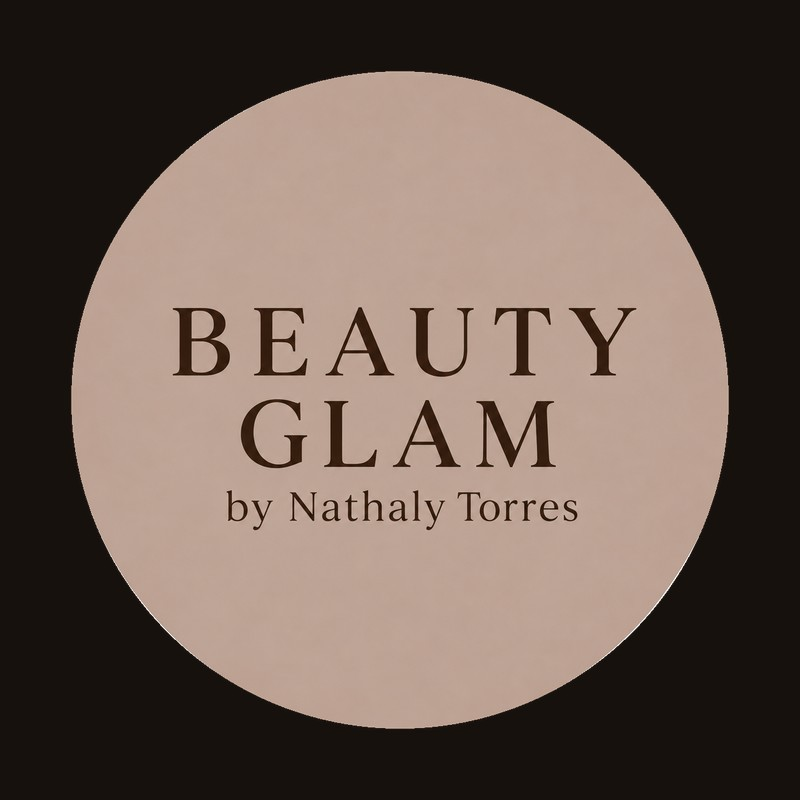
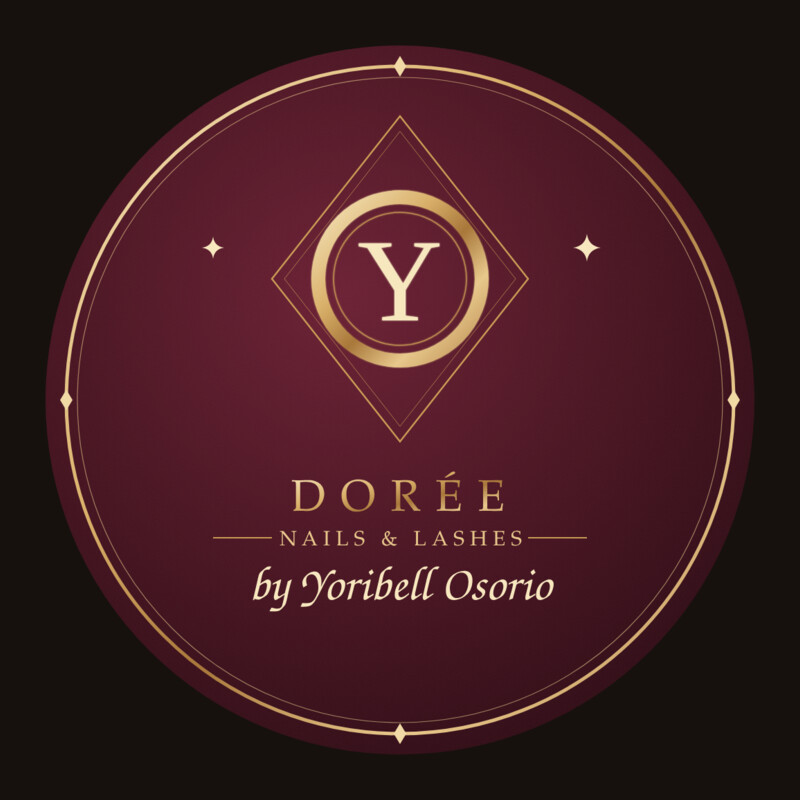
Nueva marca: Doree Nails & Lashes by Yoribell Osorio

diff --git a/admin.html b/admin.html
@@ -3,7 +3,7 @@
 <head>
 <meta charset="utf-8">
 <meta name="viewport" content="width=device-width, initial-scale=1, viewport-fit=cover">
-<title>Beauty Glam · Administración</title>
+<title>Dorée · Administración</title>
 <meta name="robots" content="noindex">
 <meta name="theme-color" content="#17110e">
 <link rel="manifest" href="manifest-admin.json">
@@ -142,7 +142,7 @@
 </head>
 <body>
 <header>
-  <img src="logo.png" alt="Beauty Glam by Nathaly Torres" width="520" height="520">
+  <img src="logo.png" alt="Dorée Nails &amp; Lashes by Yoribell Osorio" width="520" height="520">
   <div class="titulo">Administración</div>
 </header>
 <main class="wrap" id="app"><p class="muted" style="text-align:center">Cargando…</p></main>
@@ -185,7 +185,7 @@ async function api(params) {
 }
 
 const waLink = (tel, txt) => 'https://wa.me/' + tel + '?text=' + encodeURIComponent(txt);
-const msgBienvenida = (nombre, pin) => 'Hola ' + nombre.split(' ')[0] + ', bienvenida a Beauty Glam. Entra a tu portal de profesional: ' + PORTAL +
+const msgBienvenida = (nombre, pin) => 'Hola ' + nombre.split(' ')[0] + ', bienvenida a Dorée Nails & Lashes. Entra a tu portal de profesional: ' + PORTAL +
   '\nTu PIN es ' + pin + ' (no lo compartas).\nAhí ves tus finanzas: los servicios que te cobraron, tu comisión, tus propinas y los pagos de cada quincena.';
 
 /* ---------- Ingreso ---------- */

diff --git a/enlaces.html b/enlaces.html
@@ -3,7 +3,7 @@
 <head>
 <meta charset="utf-8">
 <meta name="viewport" content="width=device-width, initial-scale=1, viewport-fit=cover">
-<title>Beauty Glam by Nathaly Torres · Enlaces</title>
+<title>Dorée Nails &amp; Lashes by Yoribell Osorio · Enlaces</title>
 <meta name="description" content="Reserva tu cita, escríbenos por WhatsApp y síguenos en Instagram.">
 <meta name="theme-color" content="#17110e">
 <link rel="icon" href="image.jpg">
@@ -31,8 +31,8 @@
 </head>
 <body>
 <div class="wrap">
-  <img class="logo" src="logo.png" alt="Beauty Glam by Nathaly Torres" width="520" height="520">
-  <h1 id="nombre">Beauty Glam</h1>
+  <img class="logo" src="logo.png" alt="Dorée Nails &amp; Lashes by Yoribell Osorio" width="520" height="520">
+  <h1 id="nombre">Dorée Nails &amp; Lashes</h1>
   <div class="sub" id="ciudad">Uñas · Pestañas · Cejas · Maquillaje</div>
   <div class="links" id="links">
     <a class="prin" href="./"><span class="ico">✦</span> Reservar mi cita</a>

diff --git a/consentimiento.html b/consentimiento.html
@@ -3,7 +3,7 @@
 <head>
 <meta charset="utf-8">
 <meta name="viewport" content="width=device-width, initial-scale=1, viewport-fit=cover">
-<title>Beauty Glam · Consentimiento informado</title>
+<title>Dorée · Consentimiento informado</title>
 <meta name="robots" content="noindex">
 <meta name="theme-color" content="#17110e">
 <link rel="icon" href="image.jpg">
@@ -46,7 +46,7 @@
 </style>
 </head>
 <body>
-<header><img src="logo.png" alt="Beauty Glam by Nathaly Torres" width="520" height="520"></header>
+<header><img src="logo.png" alt="Dorée Nails &amp; Lashes by Yoribell Osorio" width="520" height="520"></header>
 <div class="wrap" id="app"><p class="muted" style="text-align:center;margin-top:30px">Cargando…</p></div>
 <script>
 const API = 'https://script.google.com/macros/s/AKfycbxdYsJMpAHYGTf5ObuPCoIRMS4yYKSpGW1SMGNja7iLVml2JO9O4btmWzf46nWLR7EdDA/exec';

diff --git a/encuesta.html b/encuesta.html
@@ -3,7 +3,7 @@
 <head>
 <meta charset="utf-8">
 <meta name="viewport" content="width=device-width, initial-scale=1, viewport-fit=cover">
-<title>Beauty Glam · ¿Cómo te fue?</title>
+<title>Dorée · ¿Cómo te fue?</title>
 <meta name="robots" content="noindex">
 <meta name="theme-color" content="#17110e">
 <link rel="icon" href="image.jpg">
@@ -34,7 +34,7 @@
 </style>
 </head>
 <body>
-<header><img src="logo.png" alt="Beauty Glam by Nathaly Torres" width="520" height="520"></header>
+<header><img src="logo.png" alt="Dorée Nails &amp; Lashes by Yoribell Osorio" width="520" height="520"></header>
 <div class="wrap" id="app"><p class="muted" style="margin-top:30px">Cargando…</p></div>
 <script>
 const API = 'https://script.google.com/macros/s/AKfycbxdYsJMpAHYGTf5ObuPCoIRMS4yYKSpGW1SMGNja7iLVml2JO9O4btmWzf46nWLR7EdDA/exec';

diff --git a/profesionales.html b/profesionales.html
@@ -3,7 +3,7 @@
 <head>
 <meta charset="utf-8">
 <meta name="viewport" content="width=device-width, initial-scale=1, viewport-fit=cover">
-<title>Beauty Glam · Portal del profesional</title>
+<title>Dorée · Portal del profesional</title>
 <meta name="robots" content="noindex">
 <meta name="theme-color" content="#17110e">
 <link rel="icon" href="image.jpg">
@@ -83,7 +83,7 @@
 </head>
 <body>
 <header>
-  <img src="logo.png" alt="Beauty Glam by Nathaly Torres" width="520" height="520">
+  <img src="logo.png" alt="Dorée Nails &amp; Lashes by Yoribell Osorio" width="520" height="520">
   <div class="titulo">Portal del profesional</div>
 </header>
 <main class="wrap" id="app"><p class="muted" style="text-align:center">Cargando…</p></main>

diff --git a/index.html b/index.html
@@ -3,7 +3,7 @@
 <head>
 <meta charset="utf-8">
 <meta name="viewport" content="width=device-width, initial-scale=1, viewport-fit=cover">
-<title>Beauty Glam · Reserva tu cita</title>
+<title>Dorée · Reserva tu cita</title>
 <meta name="description" content="Reserva tu cita en el salón en segundos.">
 <meta name="theme-color" content="#17110e">
 <link rel="icon" href="image.jpg">
@@ -209,7 +209,7 @@
 </head>
 <body>
 <header>
-  <h1 class="logo"><img src="logo.png" alt="Beauty Glam by Nathaly Torres" width="520" height="520"></h1>
+  <h1 class="logo"><img src="logo.png" alt="Dorée Nails &amp; Lashes by Yoribell Osorio" width="520" height="520"></h1>
   <div class="lema" id="lema"></div>
 </header>
 <nav><div class="wrap">

diff --git a/gestion.js b/gestion.js
@@ -122,7 +122,7 @@ function sellosHtml(s) {
 
 /* ---------- Campañas por WhatsApp ---------- */
 let CAMP = { categoria: '', servicio: '', profesional: '', sinVisita: '', cumpleMes: '', sinCita: true,
-  mensaje: 'Hola {nombre} 💖 Te extrañamos en Beauty Glam. Esta semana tenemos un detalle especial para ti. Reserva aquí: {link}', nombre: '' };
+  mensaje: 'Hola {nombre} 💖 Te extrañamos en Dorée. Esta semana tenemos un detalle especial para ti. Reserva aquí: {link}', nombre: '' };
 async function vistaCampanas(msg) {
   let base = null;
   try { base = (await api({ a: 'aServicios', token: S.token })); } catch (e) { base = { servicios: [], categorias: [], profesionales: [] }; }
